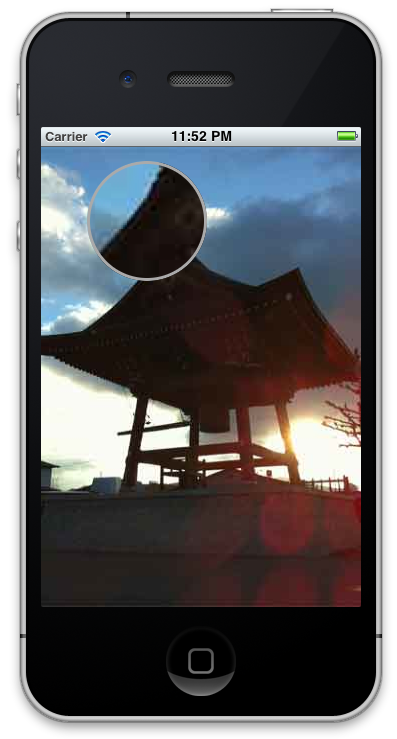
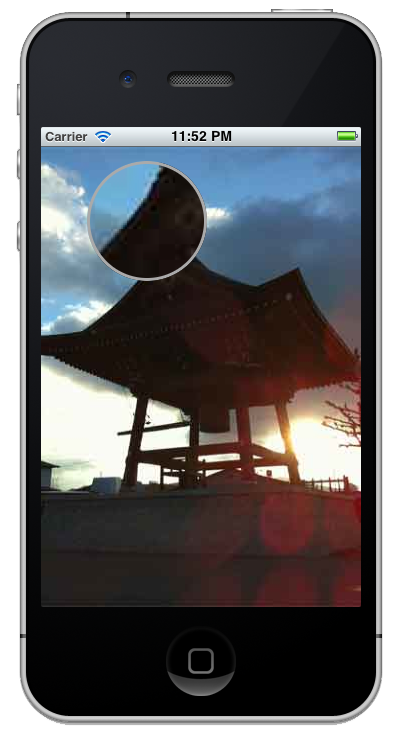
Fixed README and screenshot

Changed region(s): [[0.0907, 0.0311, 0.9673, 0.9959], [0.0302, 0.0622, 0.0907, 0.9648], [0.0605, 0.0311, 0.0907, 0.0622]]

diff --git a/README.md b/README.md
@@ -10,7 +10,7 @@ Just copy the files under the _MagnifyingGlass_ directory into your project.
 
 **Howto**:
 
-Simply create a _ACMagnifyingView_ view and a magnifier will show up when you tap the screen, magnifying the view and its subviews.
+Simply create a _ACMagnifyingView_ view (with alloc/initWithFrame or from nib) and a magnifier will show up when you tap the screen, magnifying the view and its subviews.
 
 It is possible to use a custom magnifier, like this:
 
